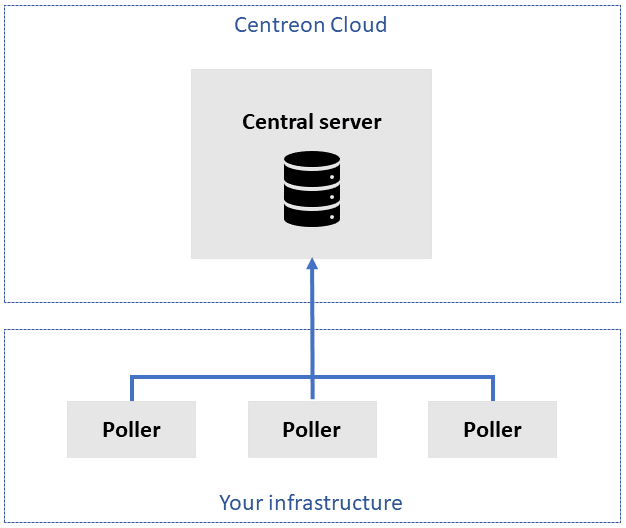
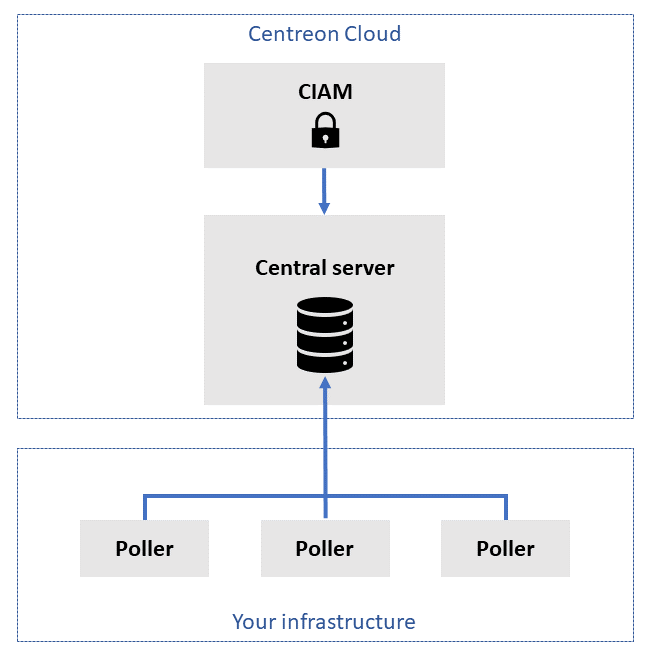
[Draft] Improve infos about CIAM and getting started

Changed region(s): [[0.0, 0.0, 1.0, 0.8788], [0.0, 0.6667, 1.0, 1.0]]

diff --git a/cloud/sidebarsCloud.js b/cloud/sidebarsCloud.js
@@ -8,6 +8,15 @@ module.exports = {
         id: "getting-started/welcome"
       },
       items: [
+
+        {
+          "collapsed": true,
+          "type": "category",
+          "label": "Step 1: Discover Centreon Cloud",
+          "link": {
+            "type": "generated-index",
+                  },
+          items: [
         {
           type: 'doc',
           id: 'getting-started/architecture',
@@ -20,46 +29,101 @@ module.exports = {
           type: 'doc',
           id: 'getting-started/concepts',
         },
+                 ],
+      },
+      {
+        "collapsed": true,
+        "type": "category",
+        "label": "Step 2: Set up your platform",
+        "link": {
+          "type": "generated-index",
+                },
+      items: [
         {
           type: 'doc',
-          id: 'getting-started/monitoring',
+          id: 'getting-started/platform',
         },
         {
-          type: 'category',
-          label: 'Tutorials',
-          link: {
-            type: "generated-index",
-          },
-          items: [
-            {
-              type: 'doc',
-              id: 'getting-started/monitor-linux-server-with-snmp',
-            },
-            {
-              type: 'doc',
-              id: 'getting-started/monitor-windows-server-with-snmp',
-            },
-            {
-              type: 'doc',
-              id: 'getting-started/monitor-cisco-router-with-snmp',
-            },
-            {
-              type: 'doc',
-              id: 'getting-started/monitor-mysql-server',
-            },
-            {
-              type: 'doc',
-              id: 'getting-started/autodisco-aws',
-            },
-            {
-              type: 'doc',
-              id: 'getting-started/create-custom-view',
-            },
-          ],
-          
+          type: 'doc',
+          id: 'getting-started/start-with-pollers',
         },
-      ],
+        {
+          type: 'doc',
+          id: 'getting-started/start-with-connectors',
+        },
+            ],   
+      },
+      {
+        "collapsed": true,
+        "type": "category",
+        "label": "Step 3: Prepare the monitoring",
+        "link": {
+          "type": "generated-index",
+                },
+        items: [
+          {
+            type: 'doc',
+            id: 'getting-started/monitoring',
+          },
+          {
+            type: 'category',
+            label:'Tutorials',
+            link: {
+              type: 'doc'
+              id: "getting-started/tutorials",
+              },
+
+            items: [
+              {
+                  type: 'doc',
+                  id: 'getting-started/monitor-linux-server-with-snmp',
+              },
+              {
+                  type: 'doc',
+                  id: 'getting-started/monitor-windows-server-with-snmp',
+              },
+              {
+                  type: 'doc',
+                  id: 'getting-started/monitor-cisco-router-with-snmp',
+              },
+              {
+                  type: 'doc',
+                  id: 'getting-started/monitor-mysql-server',
+              },
+              {
+                  type: 'doc',
+                  id: 'getting-started/autodisco-aws',
+              },
+                    ],
+            },
+                  ],
+            },
+            {
+              "collapsed": true,
+              "type": "category",
+              "label": "Step 4: Monitor and visualize",
+              "link": {
+                "type": "generated-index",
+                       },
+                items: [
+              {
+                type: 'doc',
+                id: 'getting-started/monitor-in-real-time',
+              },
+              {
+                type: 'doc',
+                id: 'getting-started/first-dashboard',
+              },
+                        ], 
+             },
+             {
+                type: 'doc',
+                id: 'getting-started/cloud-beyond-basics',
+             },
+
+             ],
     },
+
     {
       type: 'category',
       label: 'Managing Centreon Cloud users',

diff --git a/cloud/getting-started/architecture.md b/cloud/getting-started/architecture.md
@@ -3,21 +3,28 @@ id: architecture
 title: Architecture of Centreon Cloud
 ---
 
-Your Centreon Cloud platform consists of a central server provided by Centreon and pollers that you install in your infrastructure.
-
-* **Central server**:
-  * The central server is provided to you by Centreon, ready to use.
-  * The central server does not monitor resources in your infrastructure (the pollers do).
-  * The central server has a [user interface](interface.md), in which you can see the resources monitored by all pollers.
-  * You can reach the user interface from anywhere, using a web browser, at `<organization>.<region>.centreon.cloud`.
-  * The central server is hosted in the cloud.
-  * Centreon installs and upgrades central servers.
-
-* **One or more pollers**:
-  * Pollers monitor resources in your infrastructure. They should be in the same network as the resources they will monitor.
-  * Pollers do not have a user interface (you see the pollers' activity on the central server's interface).
-  * Pollers are part of your infrastructure, which means better security, latency and bandwidth.
-  * You [install your pollers](../installation/deploy-poller.md) using a simple script.
-  * The communication between the central and the pollers uses HTTPS.
+Your Centreon Cloud platform consists mainly of a central server provided by Centreon and pollers that you install in your infrastructure. In addition, the Centreon [CIAM](../ciam/ciam.md) module allows you to manage organizations and users, and to log in to Centreon Cloud.
 
 ![image](../assets/getting-started/infra3.png)
+
+## Central server
+
+* The central server is provided to you by Centreon, ready to use.
+* The central server does not monitor resources in your infrastructure (the pollers do).
+* The central server has a [user interface](interface.md), in which you can see the resources monitored by all pollers.
+* You can reach the user interface from anywhere, using a web browser, at `<organization>.<region>.centreon.cloud`.
+* The central server is hosted in the cloud.
+* Centreon installs and upgrades central servers.
+
+## One or more pollers
+
+* Pollers monitor resources in your infrastructure. They should be in the same network as the resources they will monitor.
+* Pollers do not have a user interface (you see the pollers' activity on the central server's interface).
+* Pollers are part of your infrastructure, which means better security, latency and bandwidth.
+* You [install your pollers](../installation/deploy-poller.md) using a simple script.
+* The communication between the central and the pollers uses HTTPS.
+
+## Centreon CIAM
+
+* The [CIAM](../ciam/ciam.md) has a user interface that is separate from the central server's.
+* Before you can use Centreon Cloud, you need to configure your platform in the CIAM, and invite your users to your platform.

diff --git a/cloud/getting-started/monitoring.md b/cloud/getting-started/monitoring.md
@@ -3,6 +3,10 @@ id: monitoring
 title: How do I monitor a resource?
 ---
 
+Make sure you have read [Centreon basics](concepts.md) before monitoring your first resource.
+
+## Monitoring a resource
+
 To monitor a resource in Centreon Cloud:
 
 1. Create the resource.
@@ -10,13 +14,9 @@ To monitor a resource in Centreon Cloud:
 3. Link the resource to the correct template provided by a [Monitoring Connector](../monitoring/pluginpacks.md).
 4. [Export the configuration](../monitoring/monitoring-servers/deploying-a-configuration.md). The resource appears in the **Monitoring > Resources status** page, where you can track any changes in status.
 
-Here are a few tutorials to help you get started with your monitoring:
+## See also
 
-* [Monitor your first Linux host](monitor-linux-server-with-snmp.md)
-* [Monitor your first Windows host](monitor-windows-server-with-snmp.md)
-* [Monitor your first Cisco router](monitor-cisco-router-with-snmp.md)
-* [Monitor a MySQL or MariaDB database](mysql_tuto.md)
-* [Monitor AWS EC2 instances using autodiscovery](autodisco-aws.md)
+[Tutorials](category/monitoring-examples) are provided to help you set up your monitoring.
 
 You may also find the following articles interesting (on our community platform The Watch):
 

diff --git a/cloud/getting-started/cloud-beyond-basics.md b/cloud/getting-started/cloud-beyond-basics.md
@@ -1,0 +1,26 @@
+---
+id: cloud-beyond-basics
+title: Centreon Cloud beyond basics
+---
+
+Now that you have learned the basics about Centreon Cloud, you are ready to know more about how to use it.
+
+This list of features allows you to extend the experience!
+
+## Organize your monitoring
+
+Optimize your monitoring by grouping your resources strategically. Follow our [recommendations](../monitoring/groups.md) to better organize your hosts and services.
+
+## Get an email when an alert occurs
+
+Benefit from the [notification](../alerts-notifications/notif-configuration.md) feature to be informed when the status of your resource becomes critical for instance.
+
+## Experiment Auto Discovery
+
+Add your new hosts and services automatically to your platform using a discovery mechanism. Find out about the [Auto Discovery](../monitoring/discovery/introduction.md) module.
+
+## Discover Business Edition features
+
+The Centreon platform also provides Business modules (such as service mapping, graphical views) allowing you to monitor more complex business IT flows. These modules help you handle IT issues more efficiently and respect your SLAs.
+
+Visit [the Centreon Editions page](https://www.centreon.com/centreon-editions/) for more information.

diff --git a/cloud/getting-started/monitor-in-real-time.md b/cloud/getting-started/monitor-in-real-time.md
@@ -1,0 +1,31 @@
+---
+id: monitor-in-real-time
+title: Monitoring resources in real time
+---
+
+Once you have set up your first host, go to **Monitoring > Resources Status** to follow the status of its resources in real time.
+
+## Video tutorials
+
+On the **Resources Status** page you can perform the following actions:
+
+<details>
+<summary>Acknowledge an event</summary>
+
+<iframe width="100%" height="650" src="https://demo.arcade.software/m0N1YbHVxkuHU43VIxzH?embed" frameborder="0" allowfullscreen ></iframe>
+
+</details>
+
+<details>
+<summary>Plan a downtime</summary>
+
+<iframe width="100%" height="650" src="https://demo.arcade.software/4aUDiIgRN8rgxD5vnoZ3?embed" frameborder="0" allowfullscreen></iframe>
+
+</details>
+
+<details>
+<summary>Perform a check on a resource</summary>
+
+<iframe width="100%" height="650" src="https://demo.arcade.software/Kxf1Tet8c7LmpVMlptzh?embed" frameborder="0" allowfullscreen></iframe>
+
+</details>

diff --git a/cloud/getting-started/interface.md b/cloud/getting-started/interface.md
@@ -5,13 +5,9 @@ title: Overview of the Centreon interface
 
 ## Accessing the central server's interface
 
-When you first connect to Centreon Cloud, use the URL and credentials that the Centreon support team has given you. The connection URL looks like this: `https://<organization>.<region>.centreon.cloud`.
+To connect to Centreon Cloud for the first time, connect to the [CIAM](../ciam/ciam.md) and click on your platform in the **Applications** list on your organization's home page. You can then mark the URL as a favorite to access the platform faster.
 
-Fill in your user name and associated password (defined via [Centreon CIAM](../ciam/ciam.md)) and click the **Connect** button:
-
-![image](../assets/getting-started/aconnection.png)
-
-You are now connected to the Centreon web interface.
+A Centreon Cloud URL looks like this: `https://<organization>.<region>.centreon.cloud`.
 
 ## Menus
 

diff --git a/cloud/getting-started/start-with-connectors.md b/cloud/getting-started/start-with-connectors.md
@@ -1,0 +1,17 @@
+---
+id: start-with-connectors
+title: Getting started with Monitoring Connectors
+---
+
+## Definition
+
+Monitoring Connectors are the easiest way to monitor resources. They provide ready-to-use monitoring templates (i.e., a "pack"), and a plugin to execute checks. Read [more about Monitoring Connectors here](../monitoring/pluginpacks.md).
+
+## Procedure
+
+1. To access the Monitoring Connectors catalog, go to **Configuration > Monitoring Connector Manager**.
+2. To install a pack, hover over the icon with the mouse and click the **+** button.
+
+## Troubleshooting
+
+In case of a problem, a troubleshooting section is available in the [Monitoring Connectors section](/pp/integrations/plugin-packs/getting-started/how-to-guides/troubleshooting-plugins/). Also, feel free to ask any questions you may have on our community platform [The Watch](https://thewatch.centreon.com/).

diff --git a/cloud/getting-started/platform.md b/cloud/getting-started/platform.md
@@ -1,0 +1,12 @@
+---
+id: platform
+title: Getting your platform ready
+---
+
+## How do I get my monitoring platform up and running?
+
+1. Create your organization in Centreon [CIAM](../ciam/ciam.md). Be careful when you choose a name, as this will be part of the URL of your Centeon platform.
+2. Wait while your [central server](architecture.md) is being built.
+3. Invite users into your organization. They will be able to log in to your Cloud platform.
+4. [Install your pollers](../installation/deploy-poller.md) (following the [prerequisites](../installation/prerequisites.md)). They will monitor your resources.
+5. Install the [Monitoring Connectors](../monitoring/pluginpacks.md) you will need to monitor your resources.

diff --git a/cloud/getting-started/start-with-pollers.md b/cloud/getting-started/start-with-pollers.md
@@ -1,0 +1,20 @@
+---
+id: start-with-pollers
+title: Getting started with pollers
+---
+
+## Definition and architecture
+
+- Read the definition of a poller [here](../resources/glossary.md#poller).
+
+- Go to [**Architecture of Centreon Cloud**](./architecture.md) to understand how the poller works in the Centreon Cloud infrastructure. 
+
+## Installation
+
+1. Before you install a poller, you need to make sure the [requirements](../installation/prerequisites.md) are met.
+
+2. Then you can follow the [installation](../installation/deploy-poller.md) procedure.
+
+## Troubleshooting
+
+Feel free to ask any questions you may have on our community platform [The Watch](https://thewatch.centreon.com/).

diff --git a/cloud/getting-started/concepts.md b/cloud/getting-started/concepts.md
@@ -3,13 +3,6 @@ id: concepts
 title: Centreon basics
 ---
 
-## How do I get my monitoring platform up and running?
-
-Centreon provides you with a ready-to-use [central server](architecture.md). Before you can [start monitoring resources](monitoring.md), all you have to do is to:
-
-1. [Install your pollers](../installation/deploy-poller.md) (following the [prerequisites](../installation/prerequisites.md)). They will monitor your resources.
-2. Install the [Monitoring Connectors](../monitoring/pluginpacks.md) you will need to monitor your resources.
-
 ## What does Centreon monitor?
 
 Centreon allows you to monitor resources. Resources can be hosts or services:

diff --git a/cloud/getting-started/first-dashboard.md b/cloud/getting-started/first-dashboard.md
@@ -1,0 +1,21 @@
+---
+id: first-dashboard
+title: Creating your first custom view
+---
+
+Custom views are dashboards created with [widgets](../resources/glossary.md#widget).
+
+## Video tutorials
+
+<details>
+<summary>Discover widgets</summary>
+
+<iframe width="100%" height="650" src="https://demo.arcade.software/XPrZGOCuvcsgcoKe1vFM?embed" frameborder="0" allowfullscreen></iframe>
+
+</details>
+<details>
+<summary>Discover custom views</summary>
+
+<iframe width="100%" height="650" src="https://demo.arcade.software/ITgrnj8q0Mycu3piChAT?embed" frameborder="0" allowfullscreen></iframe>
+
+</details>

diff --git a/cloud/getting-started/tutorials.md b/cloud/getting-started/tutorials.md
@@ -1,0 +1,8 @@
+---
+id: tutorials
+title: Tutorials
+---
+
+import DocCardList from '@theme/DocCardList';
+
+<DocCardList />
